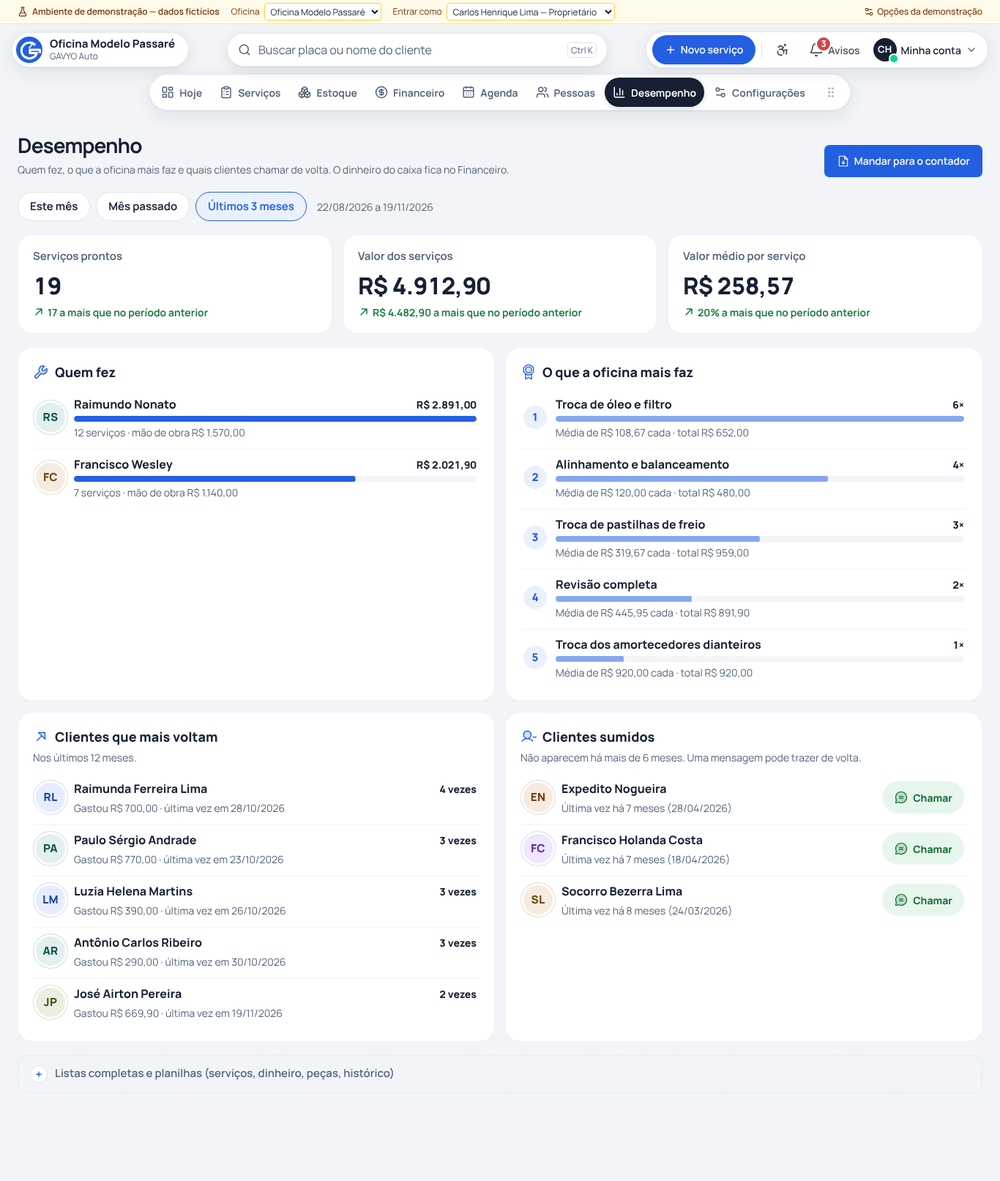
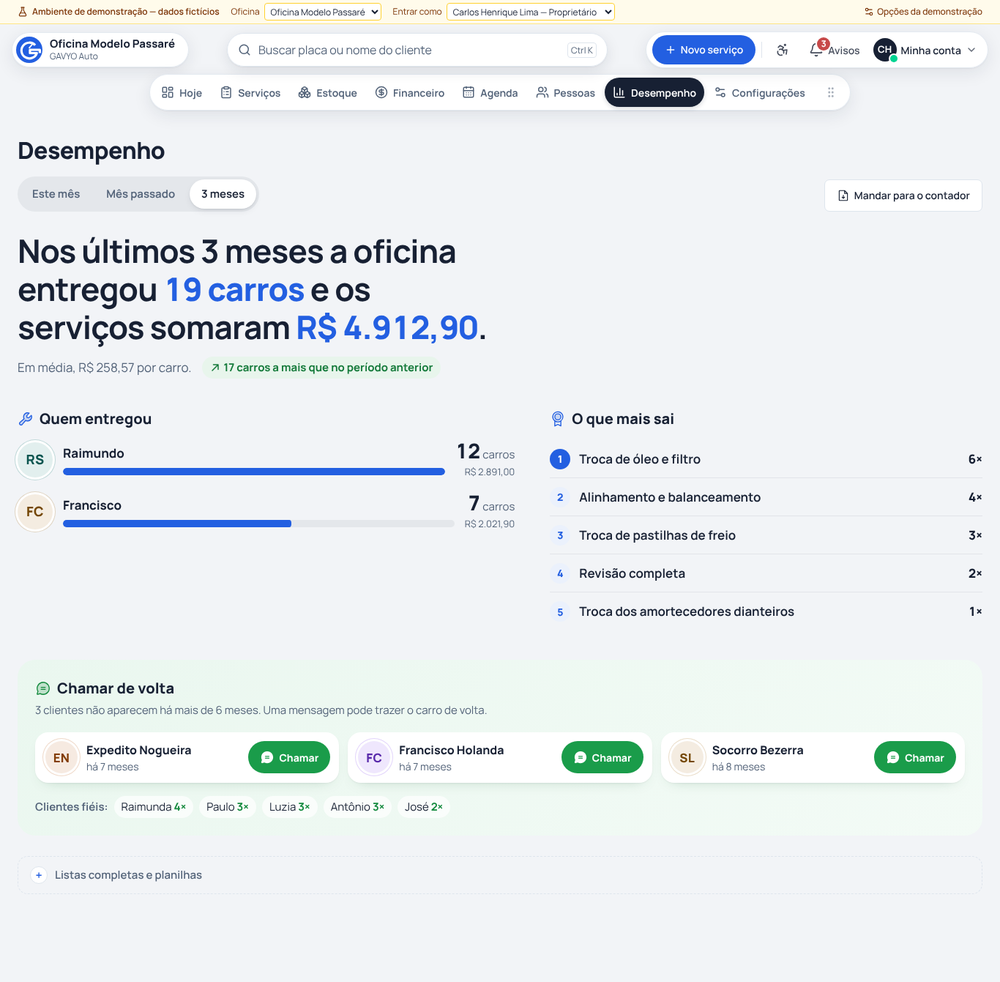
feat: Desempenho mais limpo — frase do período, placar e Chamar de volta em destaque
Crítica como usuário: caixas iguais sem ponto de partida e números
demais. Uma frase grande substitui os cartões, o placar mostra carros
por mecânico, O que mais sai fica só com nome e vezes, e Chamar de volta
vira a faixa de destaque (decisão 78).

Claude-Session: https://claude.ai/code/session_015xcccMtBZyPoUvGxoauYP3

diff --git a/src/features/reports/performance-page.tsx b/src/features/reports/performance-page.tsx
@@ -1,12 +1,12 @@
 "use client";
 
-import { ArrowDownRight, ArrowUpRight, ChatCircleText, FileArrowDown, Medal, UserMinus, Wrench } from "@phosphor-icons/react";
+import { ArrowDownRight, ArrowUpRight, ChatCircleText, FileArrowDown, Medal, Wrench } from "@phosphor-icons/react";
 import { useState } from "react";
 import { useApp } from "@/app-state/app-context";
 import { MoreDetails } from "@/components/ui/choice";
 import { CountUp } from "@/components/ui/count-up";
 import { PersonAvatar } from "@/components/ui/person-avatar";
-import { Button, PageHeader } from "@/components/ui/primitives";
+import { Button } from "@/components/ui/primitives";
 import { toast } from "@/components/ui/toast";
 import type { Cents, ISODate } from "@/domain/types";
 import { exportWorkbookXlsx } from "@/lib/export";
@@ -27,7 +27,7 @@ type Preset = "month" | "last_month" | "90";
 const PRESETS: { value: Preset; label: string }[] = [
   { value: "month", label: "Este mês" },
   { value: "last_month", label: "Mês passado" },
-  { value: "90", label: "Últimos 3 meses" },
+  { value: "90", label: "3 meses" },
 ];
 
 function range(p: Preset): { from: ISODate; to: ISODate } {
@@ -45,9 +45,7 @@ export function PerformancePage() {
   const [busy, setBusy] = useState(false);
   const { from, to } = range(preset);
   const p = buildPerformance(view, from, to);
-  const top = Math.max(1, ...p.mechanics.map((m) => m.totalCents));
-  const topService = Math.max(1, ...p.services.map((s) => s.count));
-  const periodLabel = preset === "month" ? `em ${monthName(from)}` : preset === "last_month" ? `em ${monthName(from)}` : "nos últimos 3 meses";
+  const topCount = Math.max(1, ...p.mechanics.map((m) => m.count));
 
   const sendToAccountant = async () => {
     setBusy(true);
@@ -66,126 +64,113 @@ export function PerformancePage() {
   const callBack = (name: string, phone: string) =>
     buildWhatsAppUrl(phone, `Olá, ${name.split(" ")[0]}! Aqui é da ${settings.displayName}. Faz um tempo que não vemos seu carro por aqui. Que tal uma revisão? Temos horário esta semana.`);
 
+  const when = preset === "90" ? "Nos últimos 3 meses" : `Em ${monthName(from).split(" ")[0]}`;
+  const diff = p.count - p.previous.count;
+
   return (
     <div className="module-page module-performance">
-      <PageHeader
-        title="Desempenho"
-        description="Quem fez, o que a oficina mais faz e quais clientes chamar de volta. O dinheiro do caixa fica no Financeiro."
-        actions={can("reports.export") && <Button variant="primary" className="rounded-full" icon={<FileArrowDown size={18} weight="duotone" aria-hidden />} loading={busy} onClick={sendToAccountant}>Mandar para o contador</Button>}
-      />
+      <header className="pf-head">
+        <div>
+          <h1 className="pf-h1">Desempenho</h1>
+          <div role="group" aria-label="Período" className="pf-periods">
+            {PRESETS.map((x) => (
+              <button key={x.value} type="button" aria-pressed={x.value === preset} onClick={() => setPreset(x.value)}>{x.label}</button>
+            ))}
+          </div>
+        </div>
+        {can("reports.export") && (
+          <Button className="rounded-full" icon={<FileArrowDown size={18} weight="duotone" aria-hidden />} loading={busy} onClick={sendToAccountant}>Mandar para o contador</Button>
+        )}
+      </header>
 
-      <div role="group" aria-label="Período" className="perf-periods">
-        {PRESETS.map((x) => (
-          <button key={x.value} type="button" aria-pressed={x.value === preset} onClick={() => setPreset(x.value)}>{x.label}</button>
-        ))}
-        <span className="perf-range">{formatDate(from)} a {formatDate(to)}</span>
-      </div>
+      {/* Uma frase no lugar de três cartões de número: lê-se como o dono contaria o mês. */}
+      <section key={`h-${preset}`} className="pf-hero" aria-label="Resumo do período">
+        {p.count === 0 ? (
+          <p className="pf-sentence">{when} nenhum carro foi entregue ainda.</p>
+        ) : (
+          <>
+            <p className="pf-sentence">
+              {when} a oficina entregou <strong><CountUp value={p.count} /> {p.count === 1 ? "carro" : "carros"}</strong> e os serviços somaram <strong><CountUp value={p.totalCents} format={(n) => formatBRL(n as Cents)} /></strong>.
+            </p>
+            <p className="pf-sub">
+              Em média, {formatBRL(p.avgCents)} por carro.
+              {p.previous.count > 0 && diff !== 0 && (
+                <span className="pf-delta" data-tone={diff > 0 ? "up" : "down"}>
+                  {diff > 0 ? <ArrowUpRight size={16} weight="bold" aria-hidden /> : <ArrowDownRight size={16} weight="bold" aria-hidden />}
+                  {Math.abs(diff)} {Math.abs(diff) === 1 ? "carro" : "carros"} a {diff > 0 ? "mais" : "menos"} que no período anterior
+                </span>
+              )}
+            </p>
+          </>
+        )}
+      </section>
 
-      <div key={preset} className="perf-stats">
-        <Stat label="Serviços prontos" value={p.count} prev={p.previous.count} />
-        <Stat label="Valor dos serviços" value={p.totalCents} prev={p.previous.totalCents} money />
-        <Stat label="Valor médio por serviço" value={p.avgCents} prev={p.previous.avgCents} money />
-      </div>
-
-      <div key={`g-${preset}`} className="perf-grid">
-        <section className="perf-card" aria-labelledby="perf-mech">
-          <h2 id="perf-mech" className="perf-title"><Wrench size={22} weight="duotone" aria-hidden /> Quem fez</h2>
-          {p.mechanics.length === 0 ? <p className="perf-empty">Nenhum serviço pronto {periodLabel}.</p> : (
-            <ul className="perf-list">
+      <div key={`g-${preset}`} className="pf-two">
+        <section aria-labelledby="pf-mech">
+          <h2 id="pf-mech" className="pf-h2"><Wrench size={22} weight="duotone" aria-hidden /> Quem entregou</h2>
+          {p.mechanics.length === 0 ? <p className="pf-empty">Ninguém entregou carro neste período.</p> : (
+            <ul className="pf-board">
               {p.mechanics.map((m, i) => (
-                <li key={m.userId ?? "none"} className="perf-row" style={{ "--i": i } as React.CSSProperties}>
-                  <PersonAvatar name={m.name} size={40} />
-                  <div className="perf-row-main">
-                    <div className="perf-row-line"><strong>{m.name.split(" ").slice(0, 2).join(" ")}</strong><span className="perf-money">{formatBRL(m.totalCents)}</span></div>
-                    <div className="perf-bar" aria-hidden><span style={{ "--w": m.totalCents / top } as React.CSSProperties} /></div>
-                    <p className="perf-row-sub">{m.count} {m.count === 1 ? "serviço" : "serviços"} · mão de obra {formatBRL(m.laborCents)}</p>
+                <li key={m.userId ?? "none"} style={{ "--i": i } as React.CSSProperties}>
+                  <PersonAvatar name={m.name} size={48} />
+                  <div className="pf-board-main">
+                    <span className="pf-board-name">{m.name.split(" ")[0]}</span>
+                    <span className="pf-bar" aria-hidden><span style={{ "--w": m.count / topCount } as React.CSSProperties} /></span>
                   </div>
+                  <span className="pf-board-num"><span><strong>{m.count}</strong> {m.count === 1 ? "carro" : "carros"}</span><small>{formatBRL(m.totalCents)}</small></span>
                 </li>
               ))}
             </ul>
           )}
         </section>
 
-        <section className="perf-card" aria-labelledby="perf-svc">
-          <h2 id="perf-svc" className="perf-title"><Medal size={22} weight="duotone" aria-hidden /> O que a oficina mais faz</h2>
-          {p.services.length === 0 ? <p className="perf-empty">Nenhum serviço pronto {periodLabel}.</p> : (
-            <ol className="perf-list">
+        <section aria-labelledby="pf-svc">
+          <h2 id="pf-svc" className="pf-h2"><Medal size={22} weight="duotone" aria-hidden /> O que mais sai</h2>
+          {p.services.length === 0 ? <p className="pf-empty">Nenhum serviço neste período.</p> : (
+            <ol className="pf-rank">
               {p.services.map((s, i) => (
-                <li key={s.label} className="perf-row" style={{ "--i": i } as React.CSSProperties}>
-                  <span className="perf-rank" aria-hidden>{i + 1}</span>
-                  <div className="perf-row-main">
-                    <div className="perf-row-line"><strong>{s.label}</strong><span className="perf-count">{s.count}×</span></div>
-                    <div className="perf-bar is-soft" aria-hidden><span style={{ "--w": s.count / topService } as React.CSSProperties} /></div>
-                    <p className="perf-row-sub">Média de {formatBRL(s.avgCents)} cada · total {formatBRL(s.totalCents)}</p>
-                  </div>
+                <li key={s.label} style={{ "--i": i } as React.CSSProperties} title={`Média de ${formatBRL(s.avgCents)} cada`}>
+                  <span className="pf-rank-n" aria-hidden>{i + 1}</span>
+                  <span className="pf-rank-label">{s.label}</span>
+                  <span className="pf-rank-count">{s.count}×</span>
                 </li>
               ))}
             </ol>
           )}
         </section>
-
-        <section className="perf-card" aria-labelledby="perf-loyal">
-          <h2 id="perf-loyal" className="perf-title"><ArrowUpRight size={22} weight="duotone" aria-hidden /> Clientes que mais voltam</h2>
-          <p className="perf-hint">Nos últimos 12 meses.</p>
-          {p.loyal.length === 0 ? <p className="perf-empty">Ninguém voltou mais de uma vez ainda.</p> : (
-            <ul className="perf-list">
-              {p.loyal.map((c, i) => (
-                <li key={c.customerId} className="perf-row" style={{ "--i": i } as React.CSSProperties}>
-                  <PersonAvatar name={c.name} size={40} />
-                  <div className="perf-row-main">
-                    <div className="perf-row-line"><strong>{c.name}</strong><span className="perf-count">{c.visits} vezes</span></div>
-                    <p className="perf-row-sub">Gastou {formatBRL(c.totalCents)} · última vez em {formatDate(c.lastDate)}</p>
-                  </div>
-                </li>
-              ))}
-            </ul>
-          )}
-        </section>
-
-        <section className="perf-card" aria-labelledby="perf-gone">
-          <h2 id="perf-gone" className="perf-title"><UserMinus size={22} weight="duotone" aria-hidden /> Clientes sumidos</h2>
-          <p className="perf-hint">Não aparecem há mais de 6 meses. Uma mensagem pode trazer de volta.</p>
-          {p.gone.length === 0 ? <p className="perf-empty">Nenhum cliente sumido. Ótimo sinal.</p> : (
-            <ul className="perf-list">
-              {p.gone.map((c, i) => {
-                const url = callBack(c.name, c.phone);
-                return (
-                  <li key={c.customerId} className="perf-row" style={{ "--i": i } as React.CSSProperties}>
-                    <PersonAvatar name={c.name} size={40} />
-                    <div className="perf-row-main">
-                      <strong>{c.name}</strong>
-                      <p className="perf-row-sub">Última vez há {monthsSince(c.lastDate)} meses ({formatDate(c.lastDate)})</p>
-                    </div>
-                    {url && <a className="perf-call" href={url} target="_blank" rel="noreferrer" aria-label={`Chamar ${c.name} no WhatsApp`}><ChatCircleText size={20} weight="duotone" aria-hidden /> Chamar</a>}
-                  </li>
-                );
-              })}
-            </ul>
-          )}
-        </section>
       </div>
 
-      <MoreDetails summary="Listas completas e planilhas (serviços, dinheiro, peças, histórico)">
+      <section className="pf-back" aria-labelledby="pf-gone">
+        <div className="pf-back-head">
+          <h2 id="pf-gone" className="pf-h2"><ChatCircleText size={22} weight="duotone" aria-hidden /> Chamar de volta</h2>
+          <p className="pf-hint">{p.gone.length ? `${p.gone.length} ${p.gone.length === 1 ? "cliente não aparece" : "clientes não aparecem"} há mais de 6 meses. Uma mensagem pode trazer o carro de volta.` : "Nenhum cliente sumido há mais de 6 meses. Ótimo sinal."}</p>
+        </div>
+        {!!p.gone.length && (
+          <ul className="pf-gone">
+            {p.gone.map((c, i) => {
+              const url = callBack(c.name, c.phone);
+              return (
+                <li key={c.customerId} style={{ "--i": i } as React.CSSProperties}>
+                  <PersonAvatar name={c.name} size={44} />
+                  <span className="pf-gone-text"><strong>{c.name.split(" ").slice(0, 2).join(" ")}</strong><small>há {monthsSince(c.lastDate)} meses</small></span>
+                  {url && <a className="pf-call" href={url} target="_blank" rel="noreferrer" aria-label={`Chamar ${c.name} no WhatsApp`}><ChatCircleText size={20} weight="fill" aria-hidden /> Chamar</a>}
+                </li>
+              );
+            })}
+          </ul>
+        )}
+        {!!p.loyal.length && (
+          <p className="pf-loyal">
+            <span className="pf-loyal-label">Clientes fiéis:</span>
+            {p.loyal.map((c) => <span key={c.customerId} className="pf-loyal-item" title={`${c.visits} vezes no ano · ${formatBRL(c.totalCents)}`}>{c.name.split(" ")[0]} <b>{c.visits}×</b></span>)}
+          </p>
+        )}
+      </section>
+
+      <MoreDetails summary="Listas completas e planilhas">
         <ReportTables />
       </MoreDetails>
     </div>
   );
 }
 
-function Stat({ label, value, prev, money }: { label: string; value: number; prev: number; money?: boolean }) {
-  const diff = value - prev;
-  const pct = prev ? Math.round((diff / prev) * 100) : null;
-  const fmt = (n: number) => (money ? formatBRL(n as Cents) : n.toLocaleString("pt-BR"));
-  return (
-    <div className="perf-stat">
-      <p className="perf-stat-label">{label}</p>
-      <p className="perf-stat-value"><CountUp value={value} format={fmt} /></p>
-      <p className="perf-stat-delta" data-tone={!prev ? undefined : diff > 0 ? "up" : diff < 0 ? "down" : undefined}>
-        {!prev ? "Sem comparação com o período anterior" : diff === 0 ? "Igual ao período anterior" : (
-          // Porcentagem só quando faz sentido; com pouca base, a diferença em número ("17 a mais").
-          <>{diff > 0 ? <ArrowUpRight size={16} weight="bold" aria-hidden /> : <ArrowDownRight size={16} weight="bold" aria-hidden />} {pct !== null && Math.abs(pct) <= 200 ? `${Math.abs(pct)}%` : fmt(Math.abs(diff))} {diff > 0 ? "a mais" : "a menos"} que no período anterior</>
-        )}
-      </p>
-    </div>
-  );
-}

diff --git a/src/app/globals.css b/src/app/globals.css
@@ -2414,45 +2414,63 @@ html[data-motion="reduce"] .login-row-pin { transition: none; }
 html[data-motion="reduce"] :is(.pair-img, .pair-frame) { animation: none; }
 html[data-motion="reduce"] .pair-code::after { display: none; }
 
-/* Desempenho (decisão 77): perguntas respondidas em cartões; a tabela fica recolhida no fim. */
-.perf-periods { display: flex; flex-wrap: wrap; align-items: center; gap: 8px; margin-bottom: 18px; }
-.perf-periods button { min-height: 40px; padding: 0 16px; border: 1.5px solid var(--border); border-radius: 999px; background: var(--surface); font-size: .9375rem; font-weight: 650; color: var(--text); transition: border-color 140ms, background-color 140ms, color 140ms; }
-.perf-periods button:hover { border-color: color-mix(in srgb, var(--primary) 45%, transparent); }
-.perf-periods button[aria-pressed="true"] { border-color: var(--primary); background: var(--color-primary-soft); color: var(--primary); }
-.perf-periods button:focus-visible, .perf-call:focus-visible { outline: 3px solid color-mix(in srgb, var(--primary) 45%, transparent); outline-offset: 2px; }
-.perf-range { margin-left: 6px; font-size: .875rem; color: var(--muted); }
-.perf-stats { display: grid; grid-template-columns: repeat(3, minmax(0, 1fr)); gap: 14px; margin-bottom: 18px; }
-@media (max-width: 760px) { .perf-stats { grid-template-columns: 1fr; } }
-.perf-stat { padding: 18px 20px; border: 1px solid rgb(23 32 51 / 7%); border-radius: 20px; background: var(--surface); animation: login-rise 380ms cubic-bezier(.16, 1, .3, 1) both; }
-.perf-stat:nth-child(2) { animation-delay: 50ms; } .perf-stat:nth-child(3) { animation-delay: 100ms; }
-.perf-stat-label { margin: 0; font-size: .9375rem; font-weight: 650; color: var(--muted); }
-.perf-stat-value { margin: 4px 0 2px; font-size: 2rem; font-weight: 800; letter-spacing: -.02em; color: var(--text); font-variant-numeric: tabular-nums; }
-.perf-stat-delta { display: flex; align-items: center; gap: 4px; margin: 0; font-size: .875rem; color: var(--muted); }
-.perf-stat-delta[data-tone="up"] { color: var(--success); font-weight: 650; }
-.perf-stat-delta[data-tone="down"] { color: var(--danger); font-weight: 650; }
-.perf-grid { display: grid; grid-template-columns: repeat(2, minmax(0, 1fr)); gap: 14px; margin-bottom: 18px; }
-@media (max-width: 960px) { .perf-grid { grid-template-columns: 1fr; } }
-.perf-card { display: grid; grid-template-columns: minmax(0, 1fr); align-content: start; min-width: 0; gap: 10px; padding: 20px; border: 1px solid rgb(23 32 51 / 7%); border-radius: 20px; background: var(--surface); }
-.perf-title { display: flex; align-items: center; gap: 8px; margin: 0; font-size: 1.125rem; font-weight: 800; color: var(--text); }
-.perf-title svg { color: var(--primary); }
-.perf-hint { margin: -6px 0 2px; font-size: .875rem; color: var(--muted); }
-.perf-empty { margin: 6px 0; font-size: .9375rem; color: var(--muted); }
-.perf-list { display: grid; grid-template-columns: minmax(0, 1fr); gap: 4px; margin: 0; padding: 0; list-style: none; }
-.perf-row { display: flex; align-items: center; gap: 12px; padding: 8px 4px; animation: login-rise 360ms calc(var(--i, 0) * 50ms + 120ms) cubic-bezier(.16, 1, .3, 1) both; }
-.perf-row + .perf-row { border-top: 1px solid rgb(23 32 51 / 6%); }
-.perf-row-main { display: grid; grid-template-columns: minmax(0, 1fr); flex: 1; min-width: 0; gap: 4px; }
-.perf-row-main strong { font-size: 1rem; font-weight: 750; color: var(--text); }
-.perf-row-line { display: flex; align-items: baseline; justify-content: space-between; gap: 10px; }
-.perf-row-line strong { min-width: 0; overflow: hidden; text-overflow: ellipsis; white-space: nowrap; }
-.perf-row-sub { margin: 0; font-size: .875rem; color: var(--muted); }
-.perf-money, .perf-count { flex: none; font-weight: 800; color: var(--text); font-variant-numeric: tabular-nums; }
-.perf-rank { display: grid; flex: none; place-items: center; width: 32px; height: 32px; border-radius: 999px; background: var(--color-primary-soft); font-size: .9375rem; font-weight: 800; color: var(--primary); }
-/* Barra que cresce uma vez ao abrir (o tamanho é a comparação). */
-.perf-bar { height: 8px; border-radius: 999px; background: var(--bg); overflow: hidden; }
-.perf-bar span { display: block; height: 100%; border-radius: inherit; background: var(--primary); transform-origin: left; transform: scaleX(var(--w, 0)); animation: perf-grow 700ms calc(var(--i, 0) * 70ms + 200ms) cubic-bezier(.16, 1, .3, 1) both; }
-.perf-bar.is-soft span { background: color-mix(in srgb, var(--primary) 55%, #fff); }
+/* Desempenho (decisões 77–78): uma frase grande conta o período; seções separadas por espaço,
+   não por caixas; a ação ("Chamar de volta") ganha destaque. */
+.pf-head { display: flex; flex-wrap: wrap; align-items: flex-end; justify-content: space-between; gap: 16px; margin-bottom: 28px; }
+.pf-h1 { margin: 0 0 12px; font-size: 2rem; font-weight: 800; letter-spacing: -.02em; color: var(--text); }
+.pf-periods { display: inline-flex; gap: 4px; padding: 4px; border-radius: 999px; background: color-mix(in srgb, var(--text) 6%, transparent); }
+.pf-periods button { min-height: 40px; padding: 0 16px; white-space: nowrap; border-radius: 999px; font-size: .9375rem; font-weight: 650; color: var(--muted); transition: background-color 160ms, color 160ms, box-shadow 160ms; }
+.pf-periods button:hover { color: var(--text); }
+.pf-periods button[aria-pressed="true"] { background: var(--surface); color: var(--text); box-shadow: 0 1px 2px rgb(23 32 51 / 8%), 0 4px 12px -4px rgb(23 32 51 / 16%); }
+.pf-periods button:focus-visible, .pf-call:focus-visible { outline: 3px solid color-mix(in srgb, var(--primary) 45%, transparent); outline-offset: 2px; }
+.pf-hero { margin-bottom: 40px; animation: login-rise 420ms cubic-bezier(.16, 1, .3, 1) both; }
+.pf-sentence { max-width: 30ch; margin: 0; font-size: clamp(1.75rem, 1.1rem + 2.2vw, 2.75rem); font-weight: 700; line-height: 1.18; letter-spacing: -.02em; color: var(--text); text-wrap: balance; }
+.pf-sentence strong { font-weight: 800; color: var(--primary); font-variant-numeric: tabular-nums; white-space: nowrap; }
+.pf-sub { display: flex; flex-wrap: wrap; align-items: center; gap: 6px 14px; margin: 14px 0 0; font-size: 1.0625rem; color: var(--muted); }
+.pf-delta { display: inline-flex; align-items: center; gap: 4px; padding: 4px 10px; border-radius: 999px; font-size: .9375rem; font-weight: 700; }
+.pf-delta[data-tone="up"] { background: var(--color-success-soft); color: var(--success); }
+.pf-delta[data-tone="down"] { background: var(--color-danger-soft, #fdecec); color: var(--danger); }
+.pf-two { display: grid; grid-template-columns: minmax(0, 1.15fr) minmax(0, 1fr); gap: 48px; margin-bottom: 40px; }
+@media (max-width: 960px) { .pf-two { grid-template-columns: minmax(0, 1fr); gap: 32px; } }
+.pf-h2 { display: flex; align-items: center; gap: 8px; margin: 0 0 14px; font-size: 1.25rem; font-weight: 800; color: var(--text); }
+.pf-h2 svg { color: var(--primary); }
+.pf-empty, .pf-hint { margin: 0; font-size: .9375rem; color: var(--muted); }
+/* Placar: o número de carros é o que se lê primeiro. */
+.pf-board { display: grid; grid-template-columns: minmax(0, 1fr); gap: 18px; margin: 0; padding: 0; list-style: none; }
+.pf-board li { display: flex; align-items: center; gap: 14px; animation: login-rise 380ms calc(var(--i, 0) * 60ms + 120ms) cubic-bezier(.16, 1, .3, 1) both; }
+.pf-board-main { display: grid; flex: 1; min-width: 0; gap: 8px; }
+.pf-board-name { font-size: 1.0625rem; font-weight: 750; color: var(--text); }
+.pf-bar { display: block; height: 10px; border-radius: 999px; background: color-mix(in srgb, var(--text) 6%, transparent); overflow: hidden; }
+.pf-bar > span { display: block; height: 100%; border-radius: inherit; background: var(--primary); transform-origin: left; transform: scaleX(var(--w, 0)); animation: perf-grow 800ms calc(var(--i, 0) * 80ms + 250ms) cubic-bezier(.16, 1, .3, 1) both; }
 @keyframes perf-grow { from { transform: scaleX(0); } }
-.perf-call { display: inline-flex; flex: none; align-items: center; gap: 6px; min-height: 44px; padding: 0 16px; border-radius: 999px; background: #e7f6ec; font-weight: 750; color: #136c34; text-decoration: none; transition: background-color 140ms; }
-.perf-call:hover { background: #d3efdc; }
-@media (prefers-reduced-motion: reduce) { .perf-stat, .perf-row, .perf-bar span { animation: none; } }
-html[data-motion="reduce"] :is(.perf-stat, .perf-row, .perf-bar span) { animation: none; }
+.pf-board-num { display: grid; flex: none; justify-items: end; gap: 2px; font-size: .9375rem; color: var(--muted); }
+.pf-board-num > span { white-space: nowrap; }
+.pf-board-num strong { font-size: 1.75rem; font-weight: 800; line-height: 1; color: var(--text); font-variant-numeric: tabular-nums; }
+.pf-board-num small { font-size: .8125rem; }
+.pf-rank { display: grid; grid-template-columns: minmax(0, 1fr); margin: 0; padding: 0; list-style: none; }
+.pf-rank li { display: flex; align-items: center; gap: 12px; min-height: 52px; border-bottom: 1px solid rgb(23 32 51 / 7%); animation: login-rise 360ms calc(var(--i, 0) * 50ms + 160ms) cubic-bezier(.16, 1, .3, 1) both; }
+.pf-rank li:last-child { border-bottom: 0; }
+.pf-rank-n { display: grid; flex: none; place-items: center; width: 28px; height: 28px; border-radius: 999px; background: var(--color-primary-soft); font-size: .875rem; font-weight: 800; color: var(--primary); }
+.pf-rank li:first-child .pf-rank-n { background: var(--primary); color: #fff; }
+.pf-rank-label { flex: 1; min-width: 0; overflow: hidden; font-size: 1.0625rem; font-weight: 650; color: var(--text); text-overflow: ellipsis; white-space: nowrap; }
+.pf-rank-count { flex: none; font-size: 1.0625rem; font-weight: 800; color: var(--text); font-variant-numeric: tabular-nums; }
+/* "Chamar de volta": a única ação da tela, numa faixa de destaque. */
+.pf-back { display: grid; gap: 18px; margin-bottom: 28px; padding: 24px; border-radius: 24px; background: linear-gradient(135deg, #eaf7ef 0%, #f3fbf6 100%); }
+.pf-back-head .pf-h2 { margin-bottom: 4px; }
+.pf-back-head .pf-h2 svg { color: #148a3e; }
+.pf-gone { display: grid; grid-template-columns: repeat(auto-fill, minmax(min(100%, 320px), 1fr)); gap: 12px; margin: 0; padding: 0; list-style: none; }
+.pf-gone li { display: flex; align-items: center; gap: 12px; padding: 12px 12px 12px 14px; border-radius: 18px; background: var(--surface); box-shadow: 0 1px 2px rgb(23 32 51 / 5%), 0 8px 20px -14px rgb(20 90 50 / 35%); animation: login-rise 380ms calc(var(--i, 0) * 60ms + 200ms) cubic-bezier(.16, 1, .3, 1) both; }
+.pf-gone-text { display: grid; flex: 1; min-width: 0; }
+.pf-gone-text strong { overflow: hidden; font-size: 1rem; font-weight: 750; color: var(--text); text-overflow: ellipsis; white-space: nowrap; }
+.pf-gone-text small { font-size: .875rem; color: var(--muted); }
+.pf-call { display: inline-flex; flex: none; align-items: center; gap: 6px; min-height: 44px; padding: 0 16px; border-radius: 999px; background: #1a9c4a; font-weight: 750; color: #fff; text-decoration: none; transition: background-color 140ms, transform 120ms cubic-bezier(.23, 1, .32, 1); }
+.pf-call:hover { background: #158a40; }
+.pf-call:active { transform: scale(.96); }
+.pf-loyal { display: flex; flex-wrap: wrap; align-items: center; gap: 8px; margin: 0; font-size: .9375rem; color: var(--muted); }
+.pf-loyal-label { font-weight: 650; }
+.pf-loyal-item { padding: 4px 10px; border-radius: 999px; background: rgb(255 255 255 / 70%); color: var(--text); }
+.pf-loyal-item b { color: #148a3e; }
+@media (prefers-reduced-motion: reduce) { .pf-hero, .pf-board li, .pf-bar > span, .pf-rank li, .pf-gone li { animation: none; } }
+html[data-motion="reduce"] :is(.pf-hero, .pf-board li, .pf-bar > span, .pf-rank li, .pf-gone li) { animation: none; }
+.nav-tiny { display: none; }
+@media (max-width: 640px) { .personal-nav-label .nav-full { position: absolute; width: 1px; height: 1px; overflow: hidden; clip-path: inset(50%); white-space: nowrap; } .personal-nav-label .nav-tiny { display: inline; } }

diff --git a/src/components/layout/personal-navigation.tsx b/src/components/layout/personal-navigation.tsx
@@ -13,6 +13,8 @@ import type { ModuleInfo } from "@/domain/permissions";
 
 /** Rótulos curtos para caber na ilha; o nome completo fica no título e no "Mais". */
 const SHORT: Partial<Record<string, string>> = { customers: "Pessoas" };
+/** Na barra do celular, nomes longos ficam curtos (o nome inteiro segue no title e no leitor de tela). */
+const TINY: Partial<Record<string, string>> = { reports: "Números" };
 /** Quantas abas cabem com o nome escrito: celular 4, tablet 6, notebook/desktop todas. O resto vai para "Mais". */
 const WIDTHS = ["(max-width: 767px)", "(max-width: 1099px)"];
 const visibleFor = () => (typeof window === "undefined" ? 6 : window.matchMedia(WIDTHS[0]).matches ? 4 : window.matchMedia(WIDTHS[1]).matches ? 6 : 8);
@@ -47,7 +49,7 @@ export function PersonalNavigation({ modules, preferenceKey }: { modules: Module
         const active = activeOf(item.href);
         const Icon = NAV_ICONS[item.key];
         const label = SHORT[item.key] ?? item.label;
-        return <div key={item.key} className={cx("personal-nav-item", active && "is-active")}><Link href={item.href} data-tour={`nav-${item.key}`} aria-current={active ? "page" : undefined} title={label !== item.label ? item.label : undefined}><span className="personal-nav-icon"><Icon size={18} aria-hidden /></span><span className="personal-nav-label">{label}</span></Link></div>;
+        return <div key={item.key} className={cx("personal-nav-item", active && "is-active")}><Link href={item.href} data-tour={`nav-${item.key}`} aria-current={active ? "page" : undefined} title={label !== item.label ? item.label : undefined}><span className="personal-nav-icon"><Icon size={18} aria-hidden /></span><span className="personal-nav-label">{TINY[item.key] ? <><span className="nav-full">{label}</span><span className="nav-tiny" aria-hidden>{TINY[item.key]}</span></> : label}</span></Link></div>;
       })}
       {more.length > 0 && (
         <div className="personal-nav-item personal-nav-more">

diff --git a/docs/DECISOES.md b/docs/DECISOES.md
@@ -80,3 +80,4 @@
 | 75 | **Entrada mais rápida: a GAVYO cria a conta, o dono só entra** (usuário, 19/11: "ainda tá complexo… quem faz a conta somos nós da GAVYO, o cara só entra"; skills Impeccable — distill/animate — e UI UX Pro Max — autenticação acessível) | Substitui o primeiro acesso por código da decisão 74. **Conectar = uma tela, dois campos, um botão:** "Entrar na oficina" com e-mail e senha que a GAVYO entregou → já entra pelo rasante. Sem código, sem criar senha, sem criar PIN (o PIN do dono vem da GAVYO e ele troca em Pessoas). "Esqueceu a senha? Fale com a GAVYO." E-mail desconhecido ou de funcionário: erro embaixo do campo, com o formulário balançando; 5 senhas erradas = 1 min de espera. Gerenciador de senhas e colar funcionam (`username`/`current-password`). **PIN em 1 passo:** a última pessoa que entrou neste aparelho já vem aberta — é só digitar. No computador, clicar em outro nome **abre o PIN dentro da própria linha** (sem trocar de tela); as outras linhas ficam esmaecidas; clicar de novo fecha; Esc fecha. **Animações (cada uma explica algo):** lista entra em cascata curta (45 ms por linha); a linha abre em 300 ms (curva de chegada); cada número "cai" na caixa com um pulo de 200 ms; no acerto as 4 caixas ficam verdes uma depois da outra (70 ms entre elas), a águia do painel decola e volta no rasante. Com "reduzir movimento", fica só a troca de cor. Dados antigos do navegador ganham a senha da demonstração ao carregar. |
 | 76 | **Fluxo do app: entrar pelo QR e pátio por função** (entrevista de 19/11: "o fluxo tá paia"; usuário propôs o QR; escolhas: os três usam por igual, pátio direto, botão no cartão, digital ou PIN, dois tipos de QR) | **Entrada no celular por QR**, como WhatsApp Web/Discord: no site, em Pessoas, ao salvar um funcionário o crachá é carimbado e aparece o **QR "Conectar o celular de Fulano"**; a ficha de cada pessoa ganha **"Conectar celular"**; e a aba Funcionários tem **"Conectar aparelho da oficina"** (celular/tablet do balcão, de várias pessoas). A pessoa abre o app, toca em Conectar, aponta a câmera e já entra. **Furos fechados:** o QR vale 10 min (contador na tela, "Gerar outro" ao vencer) e, na versão real, só funciona uma vez; só quem gerencia funcionários gera, e só dono gera QR de dono; pessoa sem acesso não conecta; nas próximas vezes o app abre com **digital ou PIN** (celular perdido não fica aberto); na fase 2 o dono vê e **desconecta aparelhos**; o dono que trocar de celular gera o próprio QR no computador ou usa e-mail e senha da GAVYO (reserva só dele); cliente não usa o app — o QR do cliente será o **link de acompanhamento do carro**. **Pátio por função** (próximas etapas): mecânico vê só os carros dele com "Comecei"/"Ficou pronto" no cartão; recepção vê o pátio inteiro com "Chegou carro" fixo e "Receber" nos prontos; dono vê o mesmo mais o resumo do dia. Abas: Pátio · Clientes · Conta. Demonstração: o QR leva oficina, pessoa e (para quem foi cadastrado no site) nome, e-mail e função; fase 2: código de uso único do servidor trocado por uma chave no cofre do aparelho. QR desenhado com `qrcode` (se desenha de cima para baixo com uma linha de leitura; moldura de câmera nos cantos). |
 | 77 | **Relatórios vira "Desempenho"** (usuário, 19/11: "muito básico e com muita informação"; "mas isso tem no financeiro"; escolheu a opção B) | A tela não repete o Financeiro (entrou, saiu, sobrou e contas a receber continuam lá). Mostra **só o que nenhuma outra tela mostra**, em cartões que respondem perguntas: **Quem fez** (serviços, valor e mão de obra por mecânico, com barra), **O que a oficina mais faz** (top 5; descrições parecidas como "Troca de óleo" e "Troca de óleo e filtro" viram um grupo pelas 2 primeiras palavras que importam), **Clientes que mais voltam** (12 meses) e **Clientes sumidos** (sem serviço há mais de 6 meses, com botão **Chamar** no WhatsApp e mensagem pronta). No topo, períodos em botões (Este mês, Mês passado, Últimos 3 meses) e três números com comparação ao período anterior (porcentagem quando faz sentido; com pouca base, a diferença em número). **"Mandar para o contador"** baixa um Excel com uma aba por lista. As tabelas antigas ficam recolhidas em "Listas completas e planilhas". Menu: "Desempenho" ("Números" na barra do celular). Corrigido: "Mês passado" começava no mesmo dia do mês anterior, e não no dia 1º. Demonstração ganhou meses de histórico (clientes que voltam e sumidos). Animações: números contam ao abrir, barras crescem uma vez, linhas entram em cascata curta. |
+| 78 | **Desempenho mais limpo e com identidade** (usuário, 19/11: "tá básico e meio poluído, veja como um usuário"; crítica com as regras da Impeccable — o detector automático dela foi bloqueado pela segurança da sessão — e da UI UX Pro Max) | Problemas vistos como usuário: 7 caixas iguais sem ponto de partida, 3 números por linha, cara de painel genérico, a única ação (chamar cliente) escondida, caixa com buraco, botão do contador em destaque sem motivo. **Mudou:** os 3 cartões de número viraram **uma frase em letra grande** ("Em novembro a oficina entregou **6 carros** e os serviços somaram **R$ 2.952,90**", números contando) com a média e a comparação embaixo; **Quem entregou** virou placar (nome, barra, "12 carros" grande); **O que mais sai** só com o nome e "6×" (a média fica no texto de ajuda); **Chamar de volta** ganhou faixa verde de destaque com cartões e botão do WhatsApp cheio; clientes fiéis viraram uma linha de etiquetas; seções separadas por espaço e título (sem caixas); período em controle segmentado ao lado do título ("3 meses"); "Mandar para o contador" virou botão discreto. Na barra do celular o item aparece como "Números" (o nome inteiro segue para leitor de tela). |
